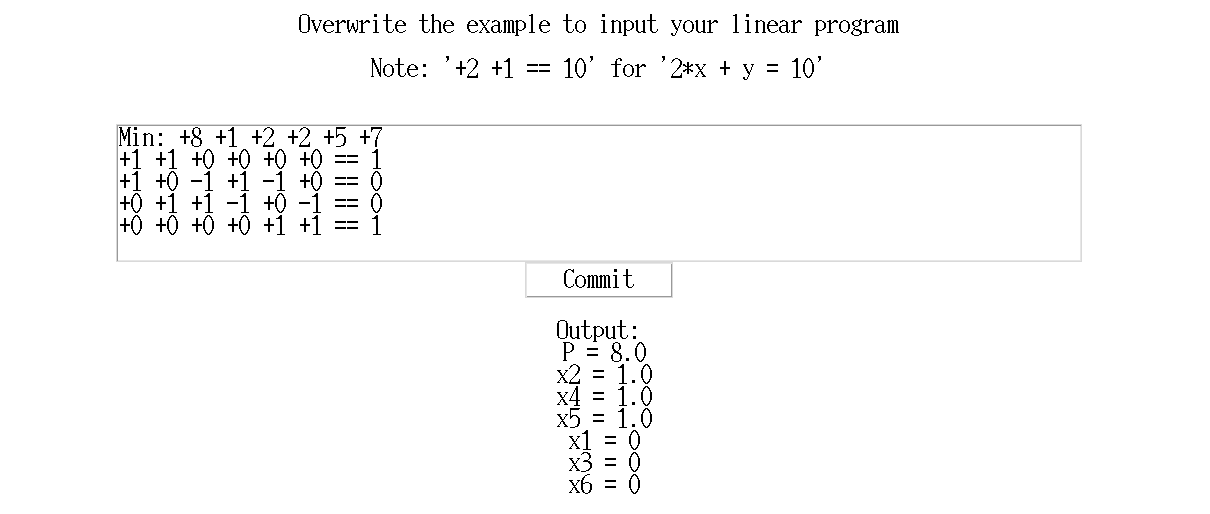
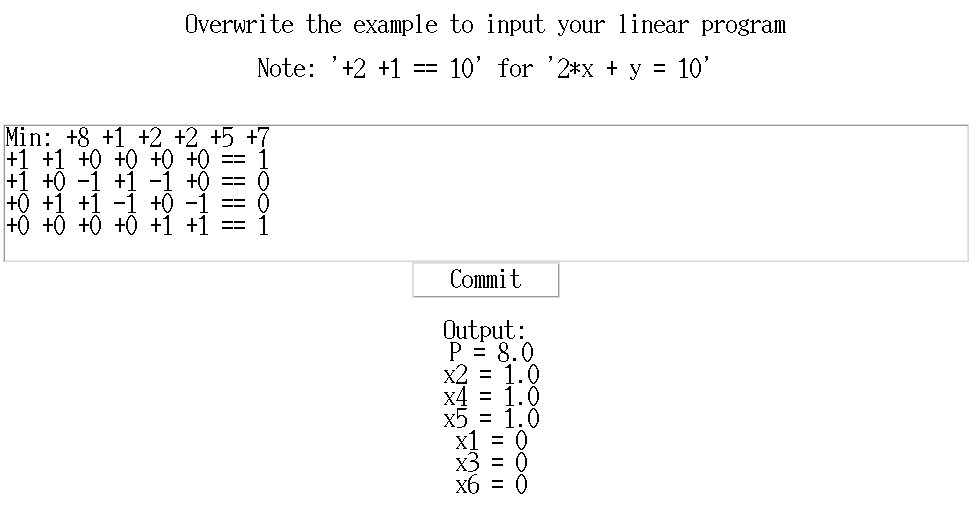
removed background

diff --git a/index.html b/index.html
@@ -22,17 +22,20 @@
     <div class="row">
       <div class="col s12">
         <div class="card transparent">
+          <ul class="right" id="icons">
+            <li><a title="Go to about section" href="#about">About</a></li>
+            <li><a title="Go to projects section" href="#projects">Projects</a></li>
+            <li><a title="Go to contact section" href="#contact">Contact</a></li>
+            <li><a title="Find my LinkedIn page" href="https://uk.linkedin.com/in/ilkin-mengusoglu-59287b225" class="black-text"><i class="fa fa-linkedin-square fa-2x"></i></a></li>
+            <li><a title="imengusoglu@gmail.com" href="mailto:imengusoglu@gmail.com" class="black-text"><i class="fa fa-at fa-2x"></i></a></li>
+            <li><a title="Find me on GitHub" href="https://github.com/imengus" class="black-text"><i class="fa fa-github-square fa-2x"></i></a></li>
+          </ul>
           <div class="card-content">
-            <div class="row right">
-              <ul id="icons">
-                <li></li>
-                <li><a title="Go to about section" href="#about">About</a></li>
-                <li><a title="Go to projects section" href="#projects">Projects</a></li>
-                <li><a title="Go to contact section" href="#contact">Contact</a></li>
-                <li><a title="Find my LinkedIn page" href="https://uk.linkedin.com/in/ilkin-mengusoglu-59287b225" class="black-text"><i class="fa fa-linkedin-square fa-2x"></i></a></li>
-                <li><a title="imengusoglu@gmail.com" href="mailto:imengusoglu@gmail.com" class="black-text"><i class="fa fa-at fa-2x"></i></a></li>
-                <li><a title="Find me on GitHub" href="https://github.com/imengus" class="black-text"><i class="fa fa-github-square fa-2x"></i></a></li>
-              </ul>
+            <div class="card-title hide-on-large-only" id="topone">
+            <br>
+            <br>
+              I'm Ilkin Mengusoglu, <br>
+              a UCL med-student with several side interests.
             </div>
             <div class="card-title hide-on-med-and-down" id="topone">
               I'm Ilkin Mengusoglu, <br>
@@ -58,7 +61,7 @@
             <span class="card-title">Skills</span>
             <h5>Programming</h5>
             <p>First starting to code at 17 for my course in number theory, the newfound enjoyment allowed me to acclimatise to foreign concepts within a few months.</p>
-            <li><b>Python libraries:</b> numpy, pandas, scikit-learn, matplotlib and other plotting libs.</li>
+            <li><b>Python libraries:</b> numpy, pandas, scikit-learn, <a href="graphs.html">matplotlib</a> and other plotting libs.</li>
             <li><b>C/C++ libraries:</b> standard, GMP.</li>
             <li>I also have experience in <b>LaTeX </b>(for EPQ),<b> HTML, CSS</b>.</li>
             <a href="#projects">view projects</a>
@@ -111,7 +114,7 @@
       <div class="col s12 m12 l12 xl8">
         <div class="card transparent" id="c4">
           <div class="card-image">
-            <img src="img/simplex2.png" alt="TkInter demo">
+            <img src="img/simplex2.png" alt="">
           </div>
           <div class="card-content">
             <span class="card-title">The simplex algorithm</span>
@@ -127,17 +130,17 @@
       <div class="col s12 m12 l12 xl4">
         <div class="card transparent" id="c4">
           <div class="card-image">
-            <img src="img/carmichael.png" alt="Complete list of Carmichael numbers between two bounds">
+            <img src="img/carmichael.png" alt="">
           </div>
           <div class="card-content">
             <span class="card-title">Other algorithms</span>
-            <p>An extension problem prompted me to write a Carmichael number generator. I serially optimised the Python code until eventually writing it in C++ (output shown above). Find it in my <a href="https://github.com/imengus/algorithms"><code>algorithms</code></a> repository, along with Game of Life and fractal generators.</p>
+            <p>An extension problem prompted me to write a Carmichael number generator. I serially optimised the Python code until eventually writing it in C++ (output shown above). Find it in my <a href="https://github.com/imengus/algorithms"><code>algorithms</code></a> repository, along with scripts modelling neurons, or Game of Life.</p>
           </div>
         </div>
         <div class="card transparent" id="c4">
           <div class="card-content">
             <span class="card-title">Data Science</span>
-            <p>A collection of individually insignificant scripts I wrote for data visualisation, including those for my study hours and Ukraine statistics projects, have been lost to untimely Linux failures. ☹ </p>
+            <p>A collection of individually insignificant scripts I wrote for data visualisation have been the casualties of untimely Linux failures ☹. However, the <a href="graphs.html">plots</a> live on. Do check them out!</p>
           </div>
         </div>
       </div>
@@ -153,7 +156,7 @@
         </div>
       </div>
       <div class="row">
-        <div class="col s12 l4">
+        <div class="col s12 m12 l12 xl4">
           <div class="card transparent">
             <div class="card-content">
               <div class="card-title">
@@ -166,7 +169,7 @@
             </div>
           </div>
         </div>
-        <div class="col s12 l4">
+        <div class="col s12 m12 l12 xl4">
           <div class="card transparent">
             <div class="card-content">
               <div class="card-title">
@@ -179,7 +182,7 @@
             </div>
           </div>
         </div>
-        <div class="col s12 l4">
+        <div class="col s12 m12 l12 xl4">
           <div class="card transparent">
             <div class="card-content">
               <div class="card-title">
@@ -222,5 +225,12 @@
       </div>
     </div>
   </section>
+  <script src="https://code.jquery.com/jquery-3.3.1.min.js"></script>
+  <script src="https://cdnjs.cloudflare.com/ajax/libs/materialize/1.0.0-beta/js/materialize.min.js"></script>
+  <script>
+    $(document).ready(function(){
+      $('.materialboxed').materialbox();
+    });
+  </script>
 </body>
 </html>

diff --git a/graphs.html b/graphs.html
@@ -1,0 +1,133 @@
+<!DOCTYPE html>
+<html lang="en">
+<head>
+  <meta charset="UTF-8">
+  <meta name="viewport" content="width=device-width, initial-scale=1.0">
+  <!--Import Google Icon Font-->
+  <link href="https://fonts.googleapis.com/icon?family=Material+Icons" rel="stylesheet">
+  <link rel="stylesheet" href="https://cdnjs.cloudflare.com/ajax/libs/font-awesome/4.7.0/css/font-awesome.min.css">
+  <!-- Compiled and minified CSS -->
+  <link rel="stylesheet" href="https://cdnjs.cloudflare.com/ajax/libs/materialize/1.0.0/css/materialize.min.css">
+  <link rel="stylesheet" href="styles.css">
+  <script type = "text/javascript"
+  src = "https://code.jquery.com/jquery-2.1.1.min.js"></script>           
+  <script src = "https://cdnjs.cloudflare.com/ajax/libs/materialize/0.97.3/js/materialize.min.js">
+  </script> 
+  <title>matplotlib projects</title>
+  <link rel="shortcut icon" type="image/ico" href="img/fav.ico"/>
+</head>
+<body>
+<div class="container">
+    <div class="row">
+        <div class="col s12">
+            <div class="card transparent" id="downwards">
+                <div class="card-title center">
+                    <b>Miscellaneous <code>matplotlib</code> projects</b>
+                </div>
+            </div>
+        </div>
+    </div>
+    <div class="row">
+        <div class="col s12 m6 l3 xl3">
+            <div class="card transparent">
+                <div class="card-image">
+                    <img src="img/study.JPG" alt="" class="responsive-img materialboxed">
+                </div>
+                <div class="card-content">
+                    <div class="card-title">A-Level study hours for efficiency insights</div>
+                    <!-- I recorded my study patterns to gain efficiency insights. It seems I had a lot of fun studying further maths! -->
+                </div>
+            </div>
+        </div>
+        <div class="col s12 m6 l3 xl3">
+            <div class="card transparent">
+                <div class="card-image">
+                    <img src="img/tangent2.jpg" alt="" class="responsive-img materialboxed">
+                </div>
+                <div class="card-content">
+                    <div class="card-title">Tangent field generator</div>
+                </div>
+            </div>
+        </div>
+        <div class="col s12 m6 l3 xl3">
+            <div class="card transparent">
+                <div class="card-image">
+                    <img src="img/3dgraph.JPG" alt="" class="responsive-img materialboxed">
+                </div>
+                <div class="card-content">
+                    <div class="card-title"> 3D calculator with heatmap output </div>
+                </div>
+            </div>
+        </div>
+        <div class="col s12 m6 l3 xl3">
+            <div class="card transparent">
+                <div class="card-image">
+                    <img src="img/gol.png" alt="" class="responsive-img materialboxed">
+                </div>
+                <div class="card-content">
+                    <div class="card-title"> Game of life with custom initial pattern </div>
+                </div>
+            </div>
+        </div>
+    </div>
+    <div class="row">
+        <div class="col s12">
+            <div class="card transparent" alt="" class="responsive-img materialboxed">
+                <div class="card-title center">
+                    <b>Ukraine figures</b>
+                </div>
+            </div>
+        </div>
+    </div>
+    <div class="row">
+        <div class="col s12 m6 l3 xl3">
+            <div class="card transparent">
+                <div class="card-image">
+                    <img src="img/fig5.png" alt="" class="responsive-img materialboxed">
+                </div>
+                <div class="card-content">
+                    <div class="card-title">Feeling satisfied with current living conditions</div>
+                </div>
+            </div>
+        </div>
+        <div class="col s12 m6 l3 xl3">
+            <div class="card transparent">
+                <div class="card-image">
+                    <img src="img/fig6.png" alt="" class="responsive-img materialboxed">
+                </div>
+                <div class="card-content">
+                    <div class="card-title">Experienced hostility in new location</div>
+                </div>
+            </div>
+        </div>
+        <div class="col s12 m6 l3 xl3">
+            <div class="card transparent">
+                <div class="card-image">
+                    <img src="img/fig1.png" alt="" class="responsive-img materialboxed">
+                </div>
+                <div class="card-content">
+                    <div class="card-title">Comparing rates for men and women</div>
+                </div>
+            </div>
+        </div>
+        <div class="col s12 m6 l3 xl3">
+            <div class="card transparent">
+                <div class="card-image">
+                    <img src="img/fig9.png" alt="" class="responsive-img materialboxed">
+                </div>
+                <div class="card-content">
+                    <div class="card-title">Psychological impact, by displacement status</div>
+                </div>
+            </div>
+        </div>
+    </div>
+</div>
+<script src="https://code.jquery.com/jquery-3.3.1.min.js"></script>
+<script src="https://cdnjs.cloudflare.com/ajax/libs/materialize/1.0.0-beta/js/materialize.min.js"></script>
+<script>
+  $(document).ready(function(){
+    $('.materialboxed').materialbox();
+  });
+</script>
+</body>
+</html>

diff --git a/styles.css b/styles.css
@@ -1,7 +1,7 @@
 body {
-  background: url(img/mount4.jpg) top right no-repeat;
-  background-size: 110%;
-  background-attachment: fixed;
+  background: rgb(255, 238, 238);
+  /* background-size: 110%;
+  background-attachment: fixed; */
 }
 
 /* #c1 {
@@ -11,7 +11,7 @@ body {
 #icons {
   top: 0;
   right: 0;
-  transform: translateY(-110%);
+  transform: translateX(-5%);
 }
 
 #icons li {
@@ -34,10 +34,6 @@ a:hover {
   color: white;
 }
 
-.card-action a:hover {
-  color: white;
-}
-
 #about, #projects {
   transform: translateY(-2%);
 }
@@ -51,21 +47,27 @@ a:hover {
   transform: translateY(67%);
 }
 @media (max-width: 995px) {
-  body {
+  /* body {
     background: url(img/mount4.jpg) top right no-repeat;
     background-size: 400%;
     background-attachment: fixed;
-  }
+  } */
   #c1 {
     height: 100%; 
     overflow: hidden;
   }
 
   #about {
-    transform: translateY(-6%);
+    transform: translateY(-1%);
   }
 }
 
+@media (max-width: 1500px) {
+  #position {
+    font-size: 13px;
+    transform: translateY(0%);
+  }
+}
 
 ::-moz-selection { /* Code for Firefox */
   color: white;
